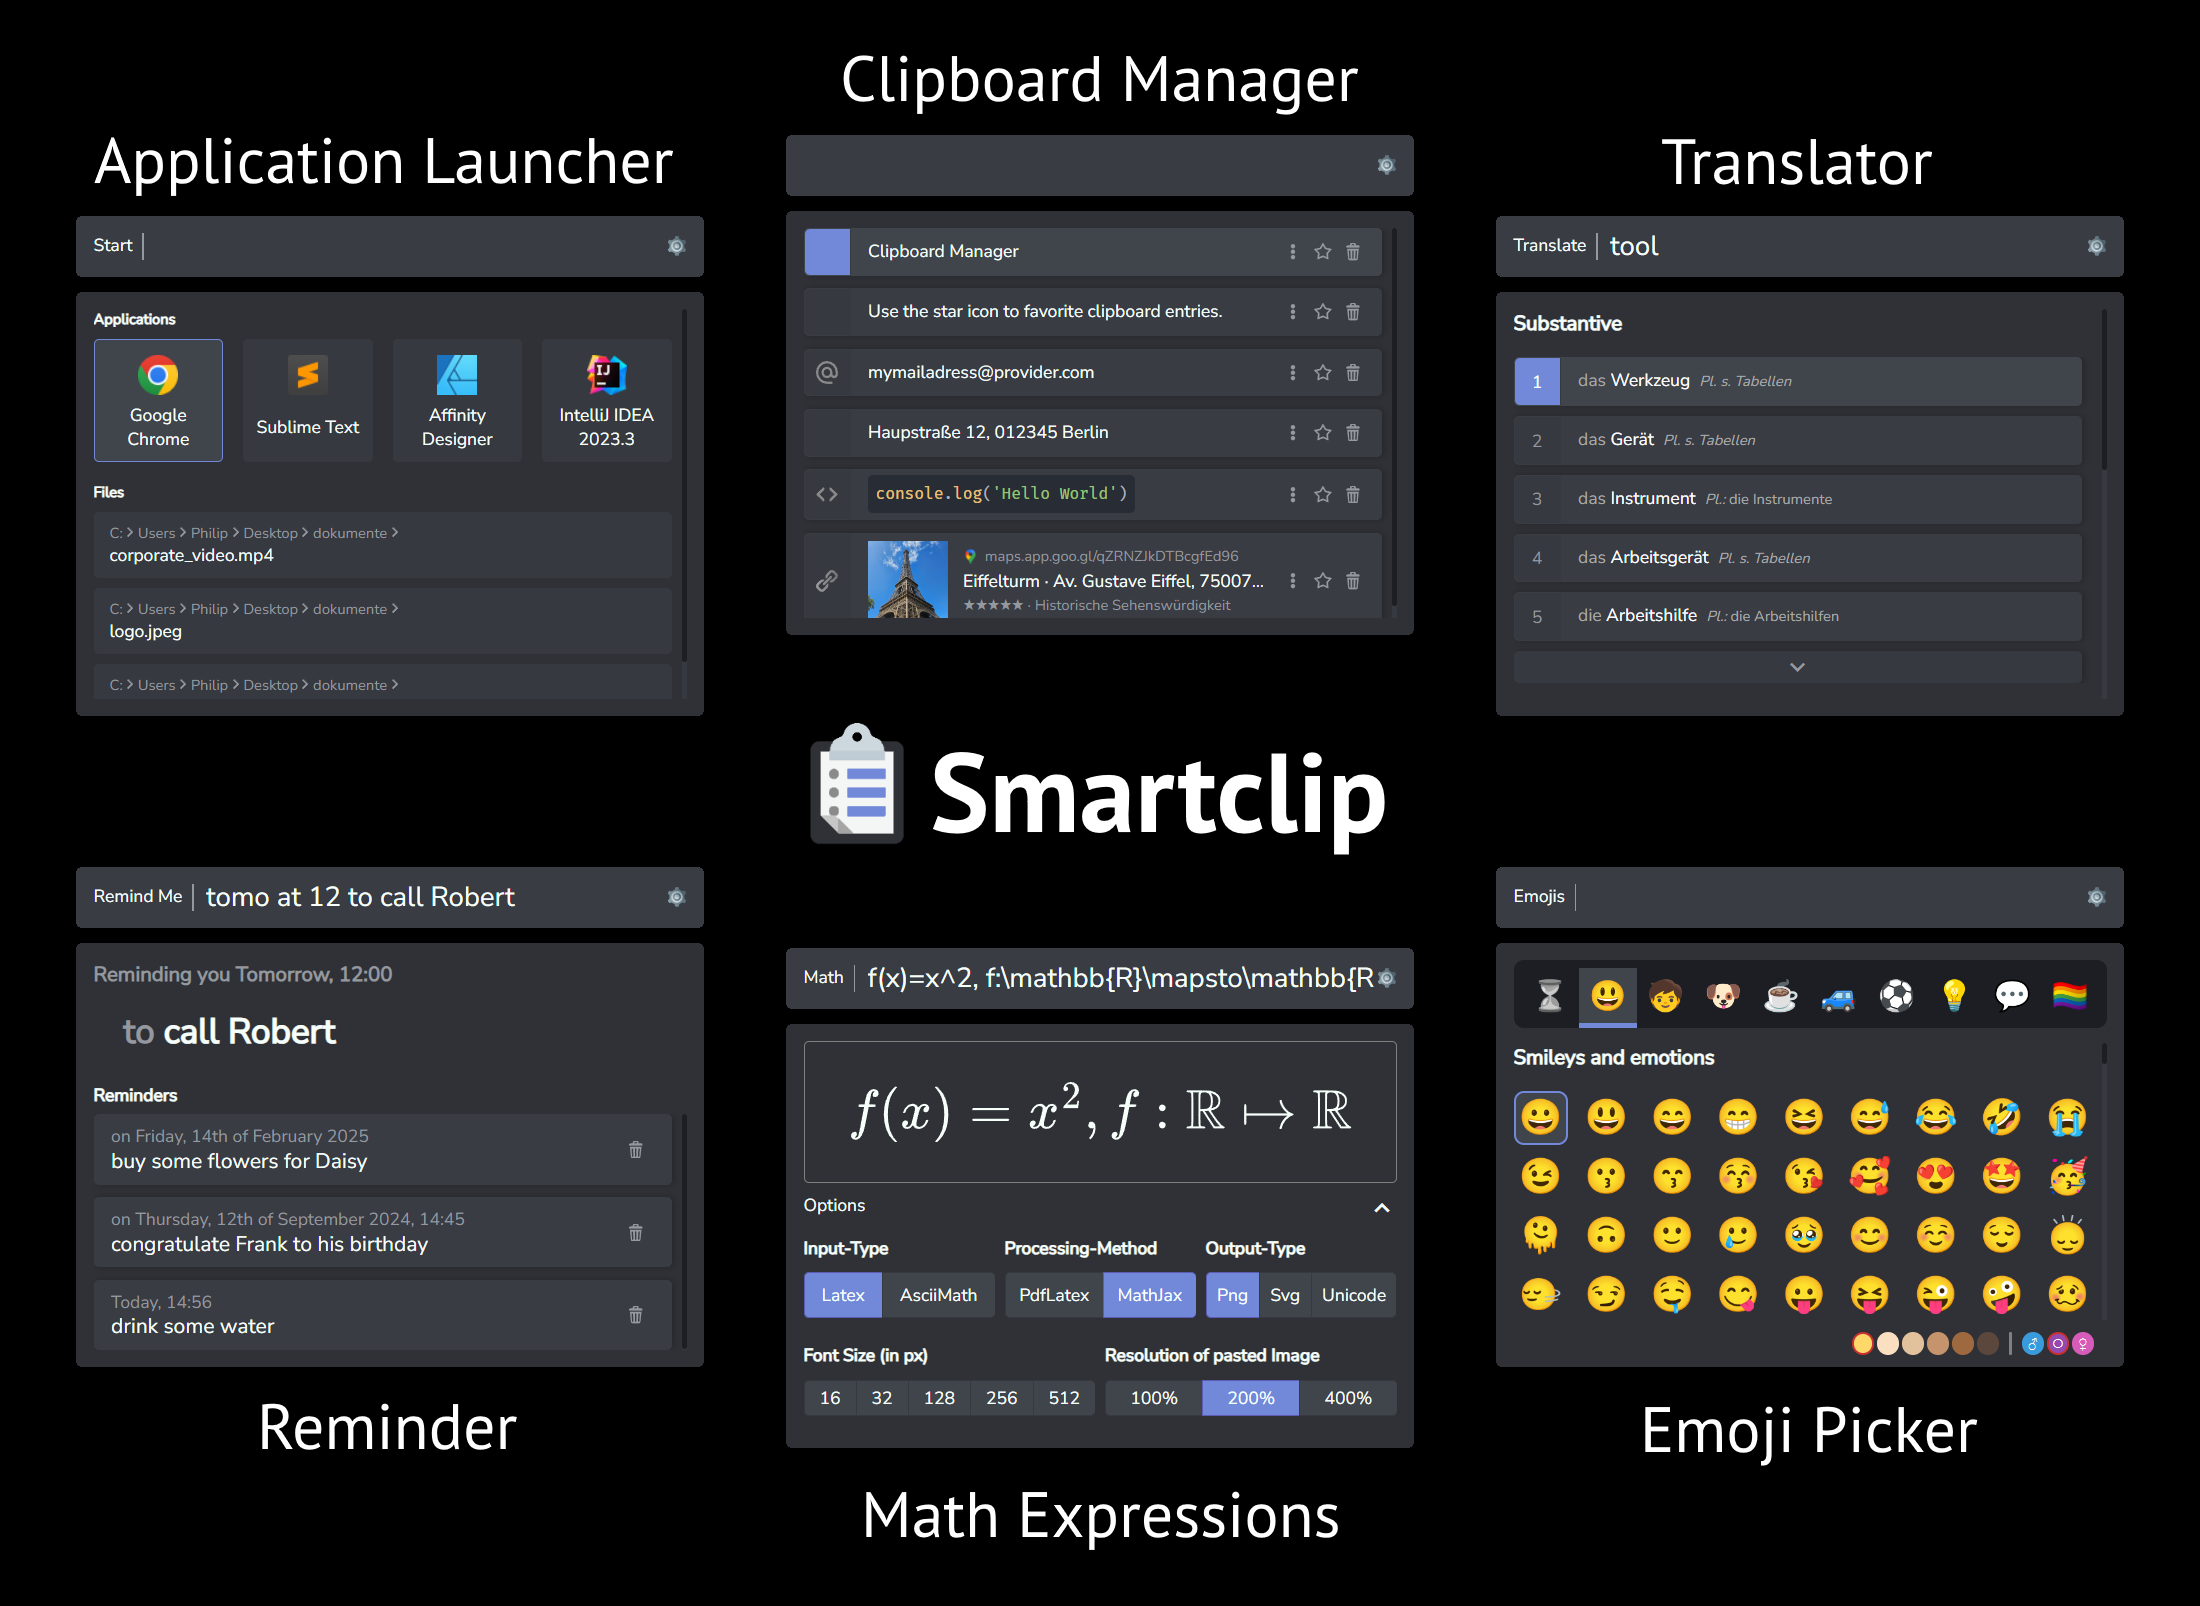
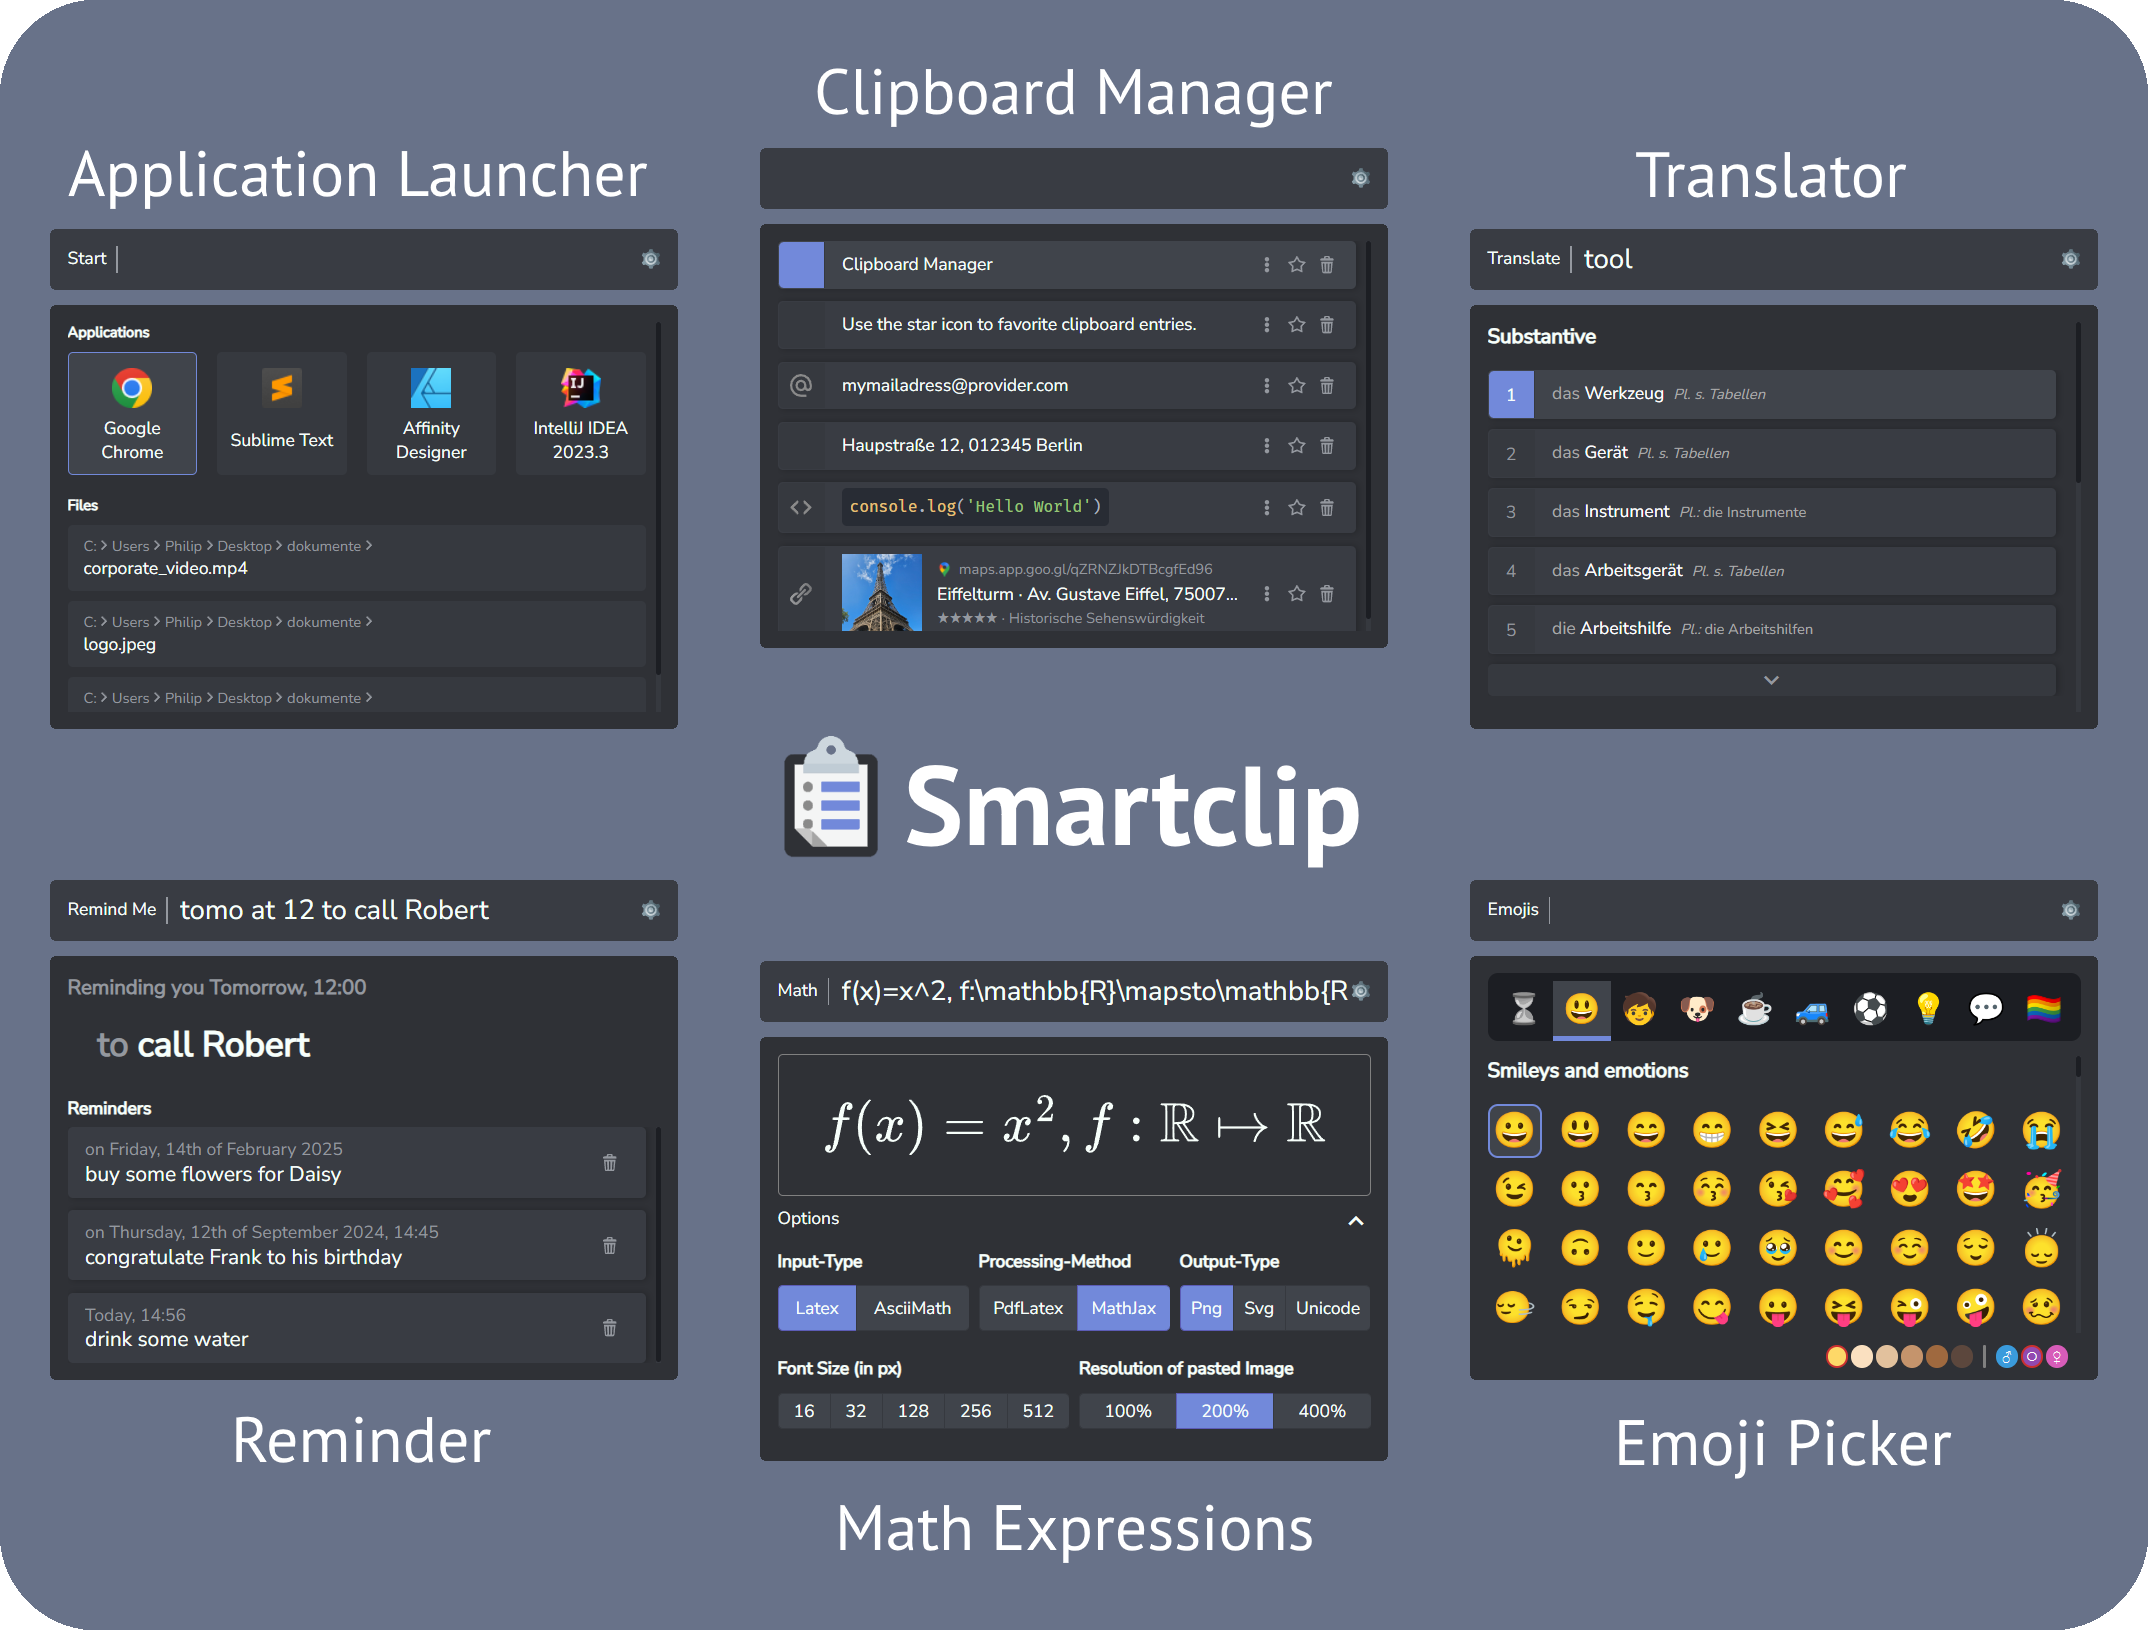
updated the title image so that its visible in dark and light mode

diff --git a/README.md b/README.md
@@ -1,5 +1,5 @@
 
-![Smartclip](./assets/images/title_image.png)
+![Smartclip](./assets/images/title_image_background.png)
 
 Smartclip is a versatile tool designed to streamline workflows by offering quick access to various utilities through a user-friendly interface. Similar to popular application launchers like Apple's Spotlight, Celebro, and Albert, Smartclip goes beyond basic search functions by integrating a range of specialized plugins. These plugins empower users to efficiently manage clipboard content, handle mathematical expressions, launch applications, translate text, and much more, all with minimal effort. Each plugin is carefully crafted to enhance productivity, making Smartclip a powerful companion for both everyday tasks and more complex workflows.
 
